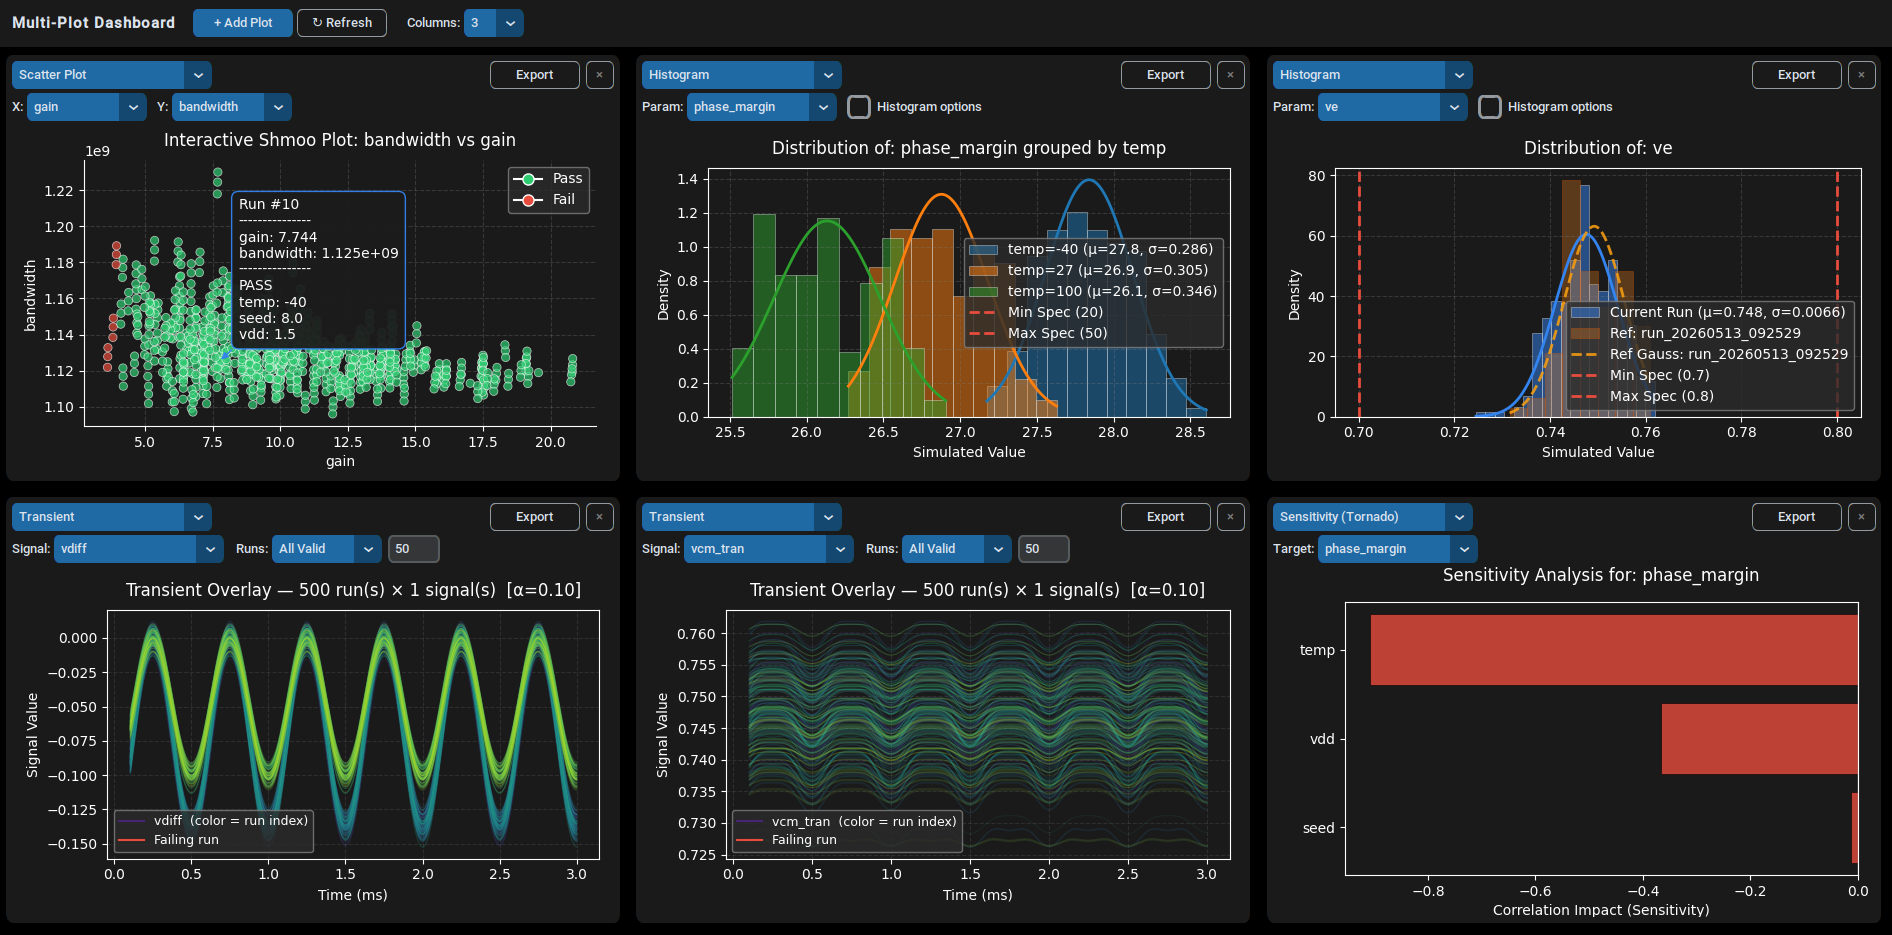
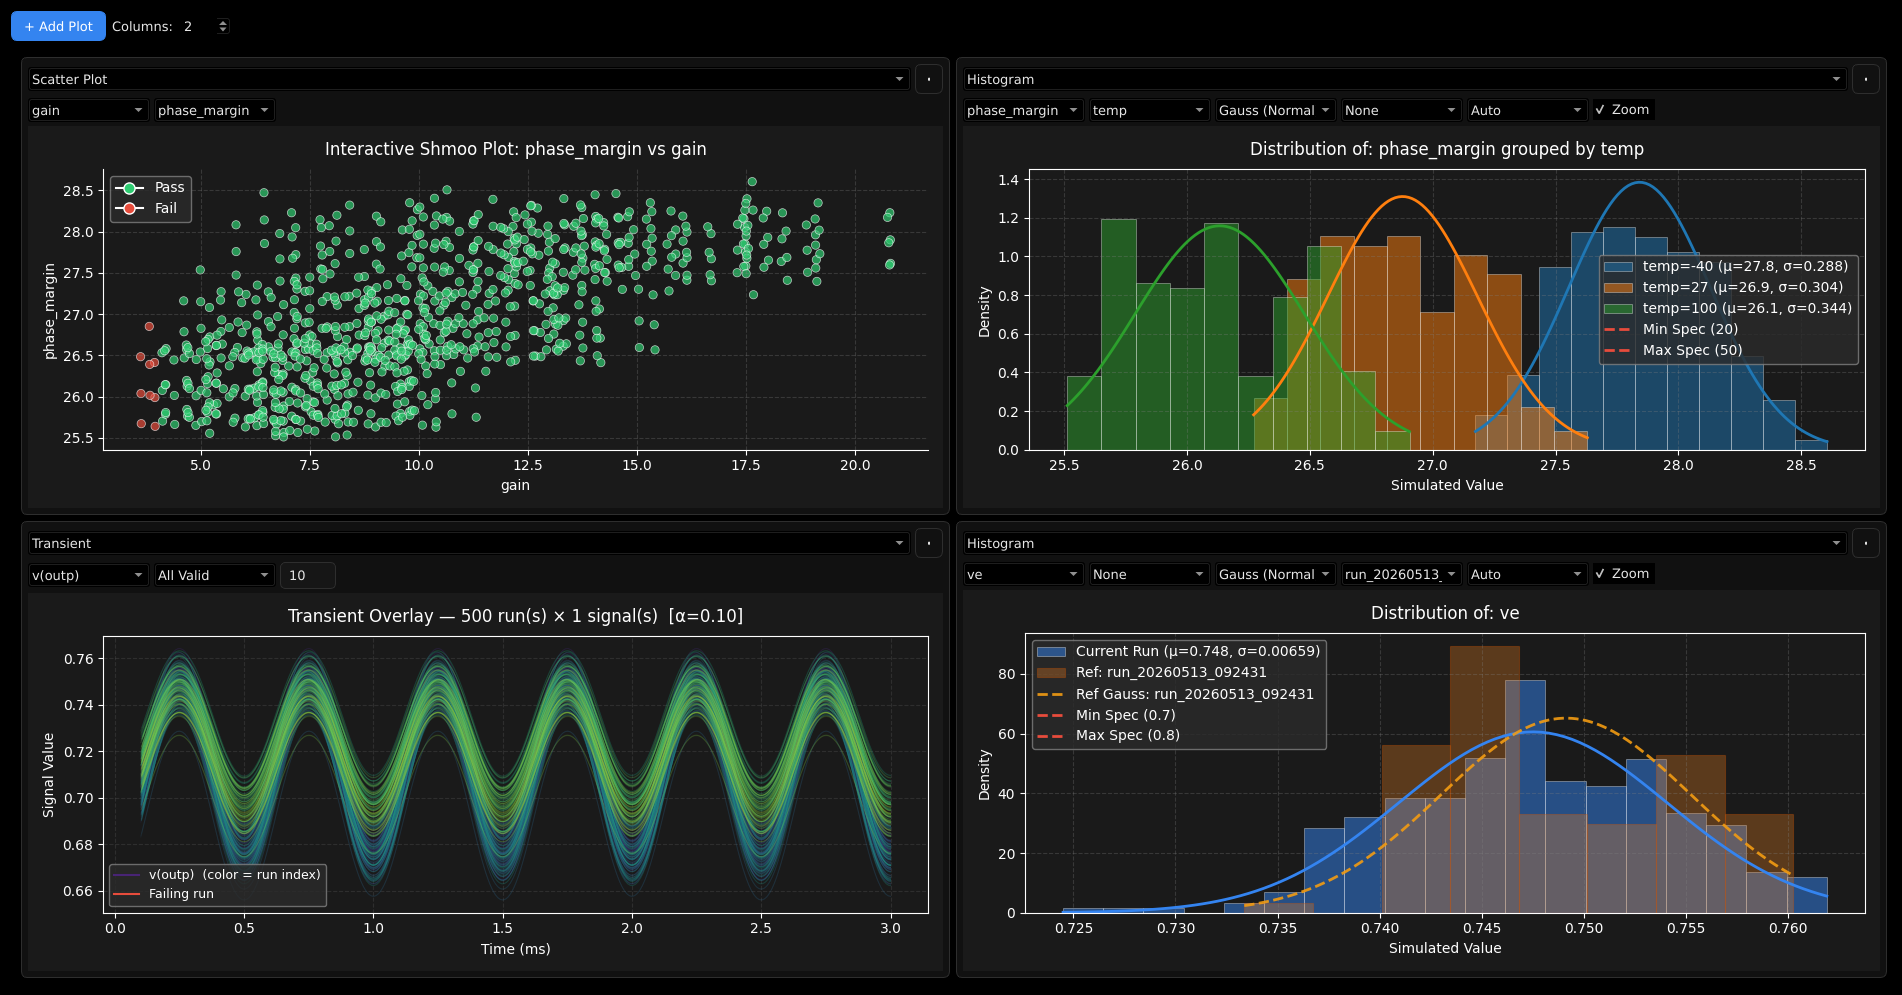
fix install.sh and update readme

diff --git a/README.md b/README.md
@@ -27,7 +27,8 @@ into plots, yield matrices, and reports.
 It ships with both a **PySide6 (Qt) desktop GUI** and a **headless CLI**, plus
 a plugin system for custom plots, reports, and expressions.
 
-<!-- Add a GUI screenshot here, e.g.:  ![Chipify GUI](docs/screenshot.png) -->
+![Histogram View](./doc/images/chipify_hist.png)
+![Scatter Plot](./doc/images/chipify_scatter.png)
 
 ## Features
 